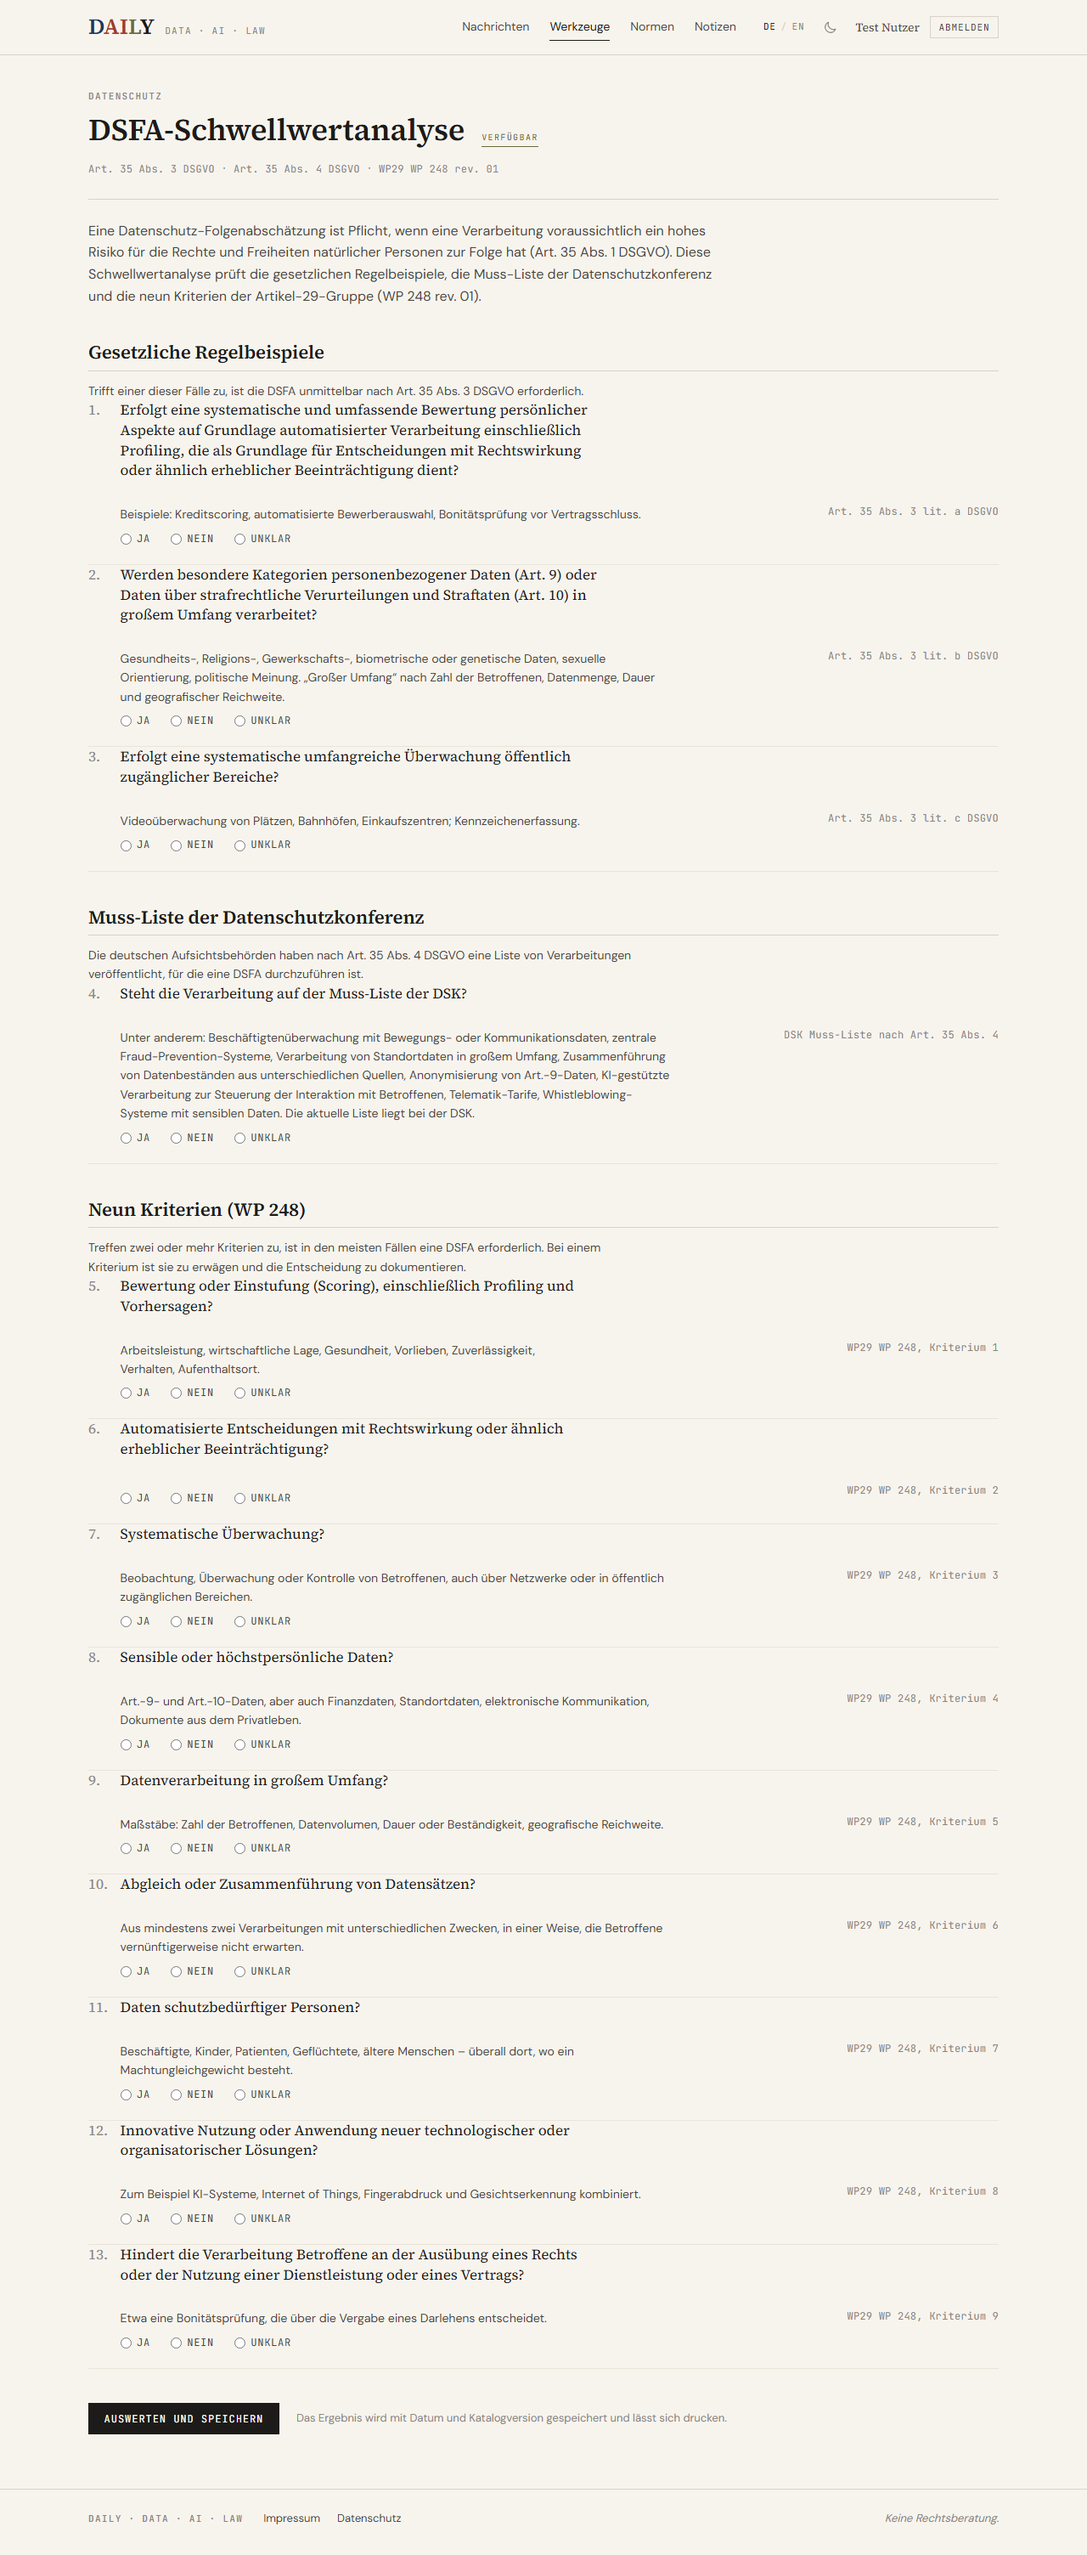
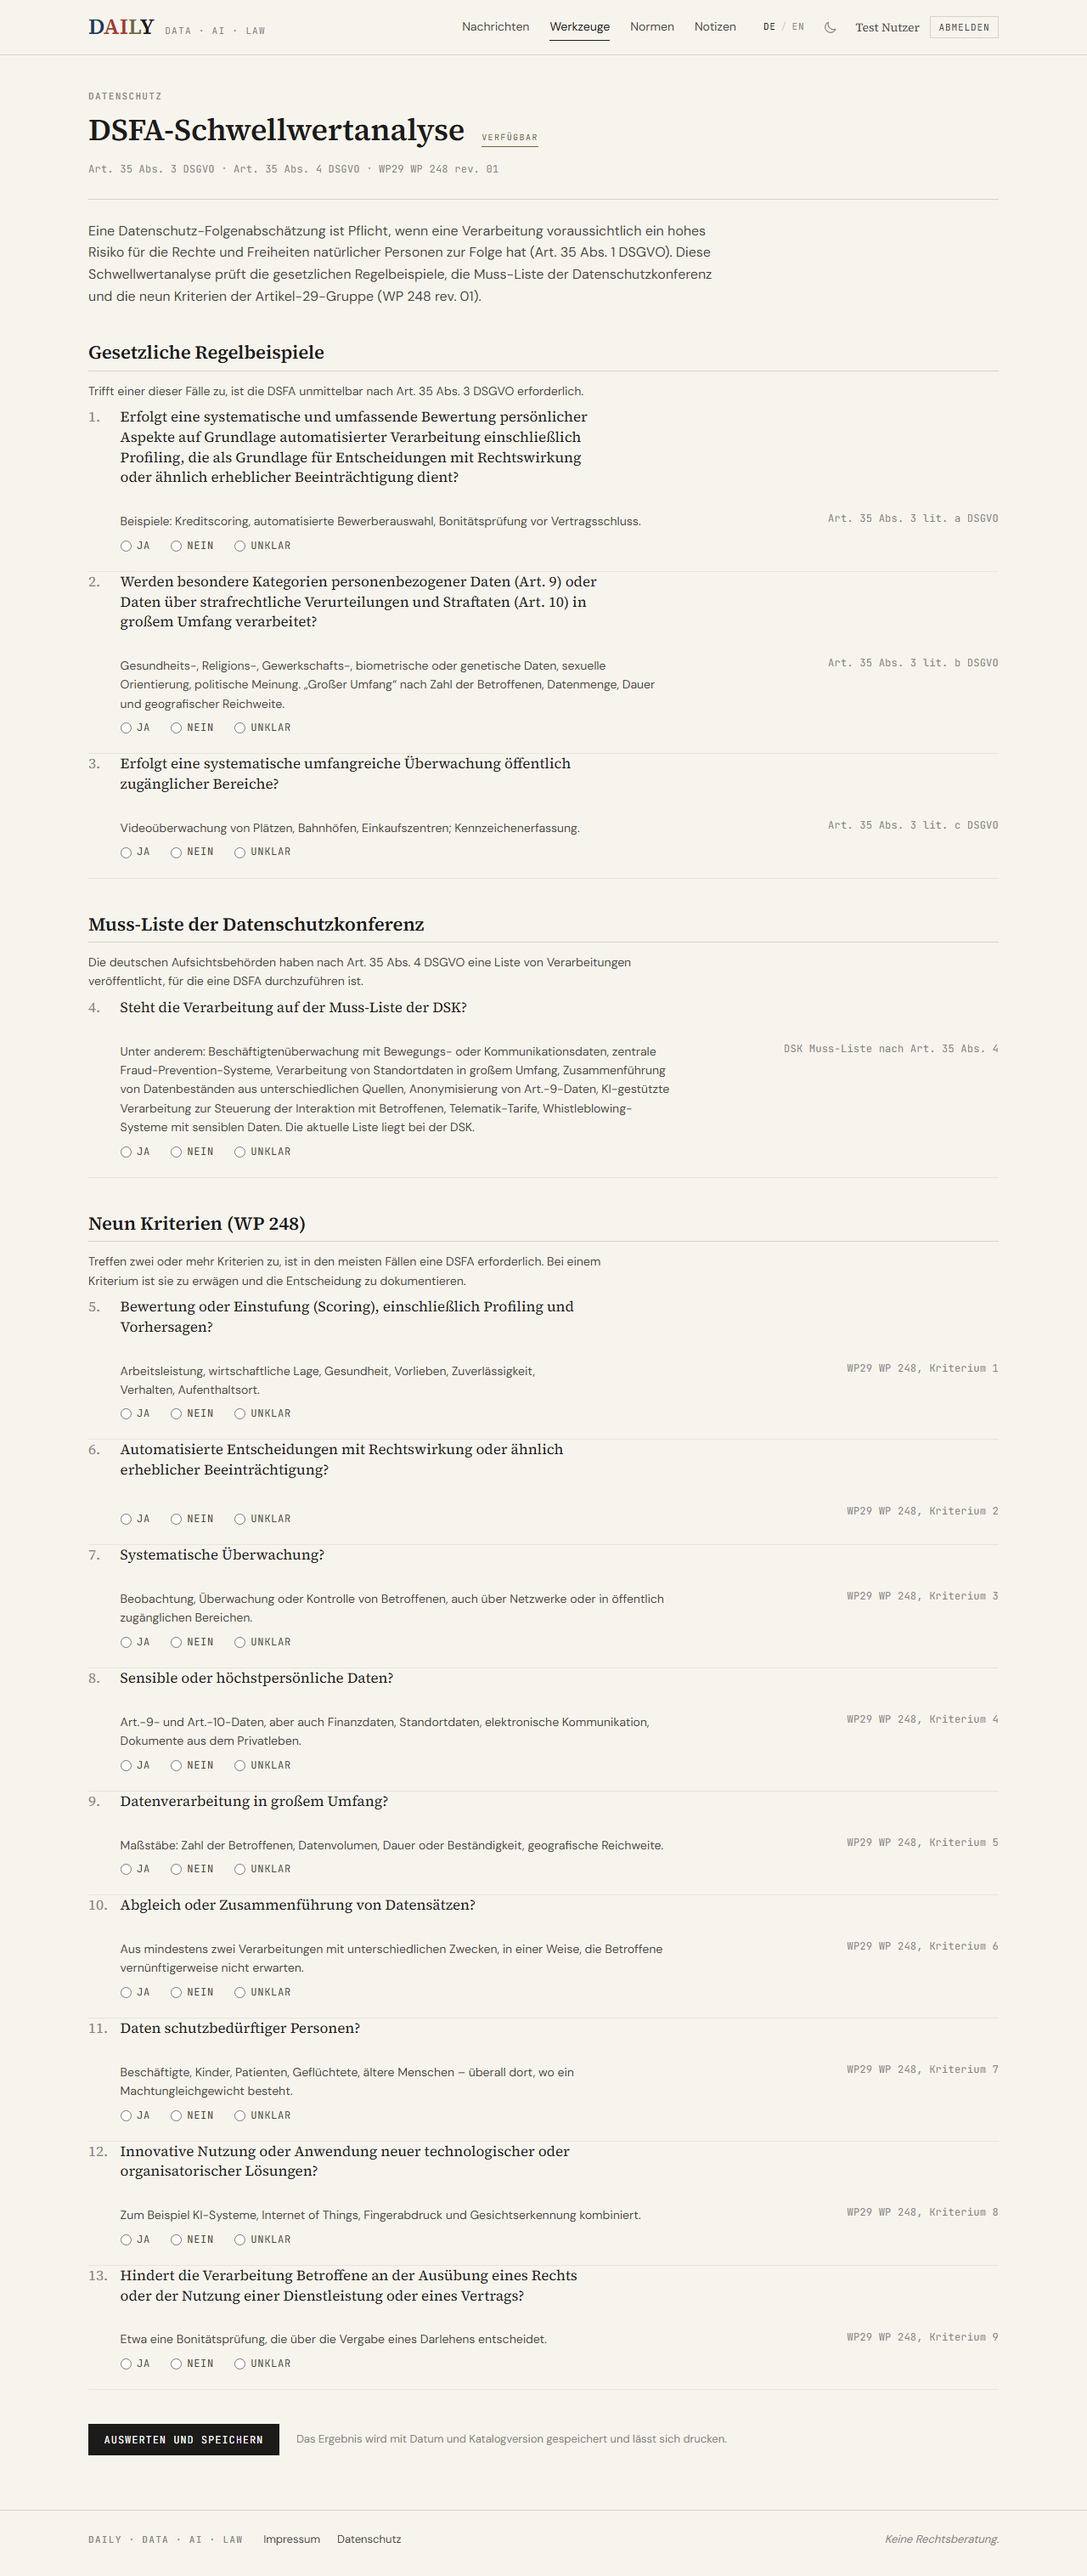
docs: update screenshots with the news page

diff --git a/scripts/screenshots.ts b/scripts/screenshots.ts
@@ -29,6 +29,8 @@ async function shot(name: string, fullPage = true) {
 
 await page.goto(`${baseUrl}/`);
 await shot('landing');
+await page.goto(`${baseUrl}/nachrichten`);
+await shot('nachrichten');
 await page.goto(`${baseUrl}/werkzeuge`);
 await shot('werkzeuge');
 await page.goto(`${baseUrl}/werkzeuge/dsfa-schwellwert`);
